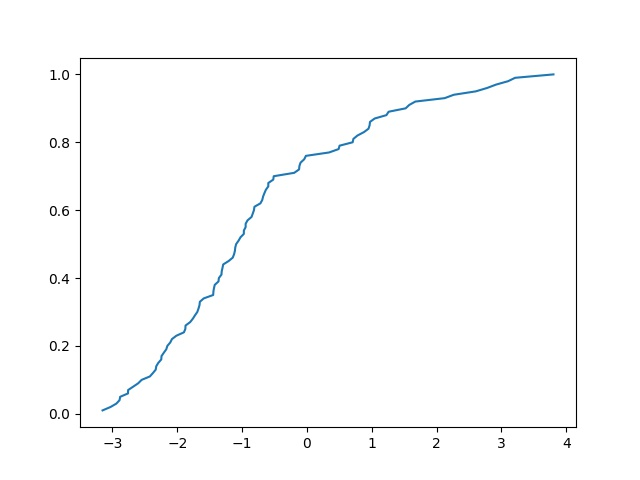
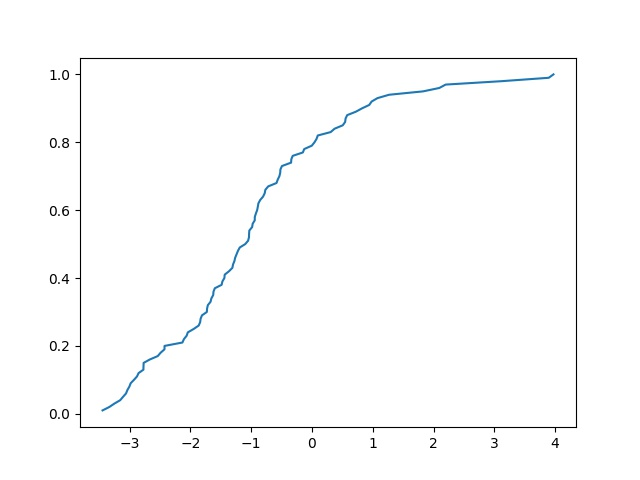
added label & title

diff --git a/src/hw6/main.py b/src/hw6/main.py
@@ -481,6 +481,9 @@ if __name__ == "__main__":
             count += 1
             Y.append(count/len(dataPoint_1))
         plt.plot(dataPoint_1, Y)
+        plt.title("Cell {idx+1} CDF")
+        plt.xlabel("SINR (dB)")
+        plt.ylabel("Probability")
         plt.savefig(f"./img/Cell_{idx + 1}.jpg")
         plt.close()
 
